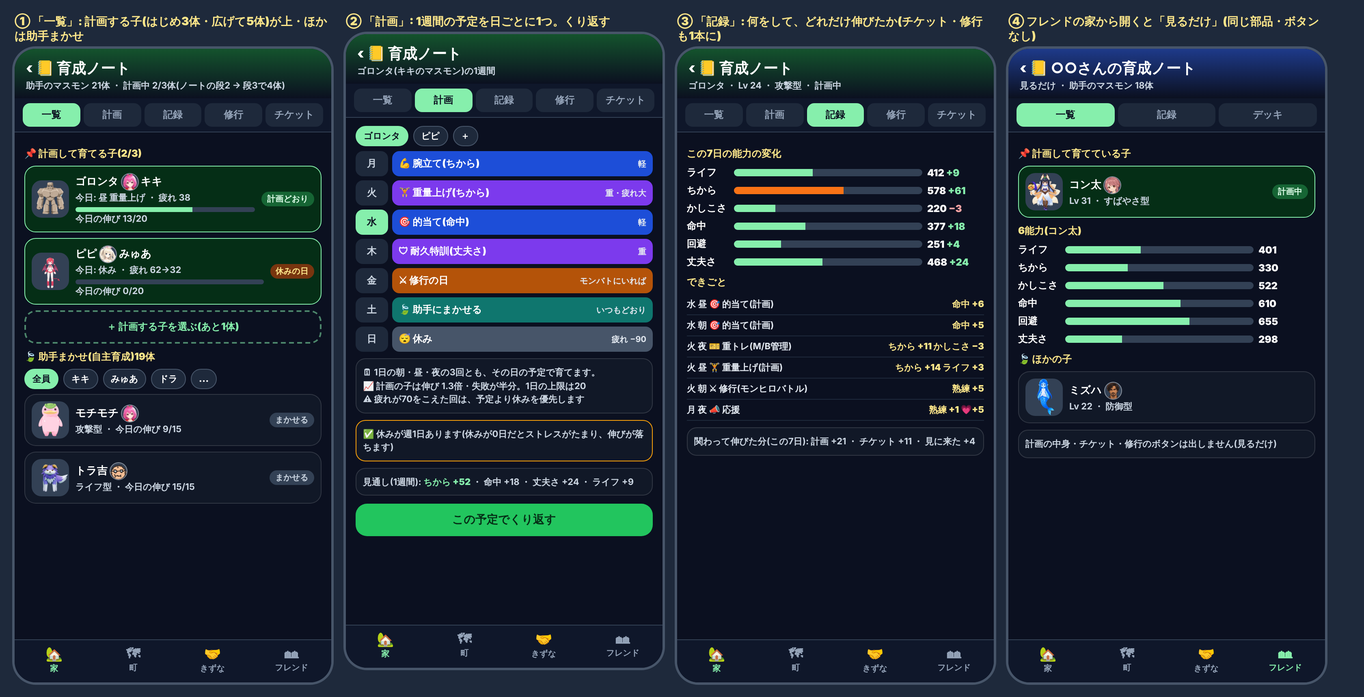
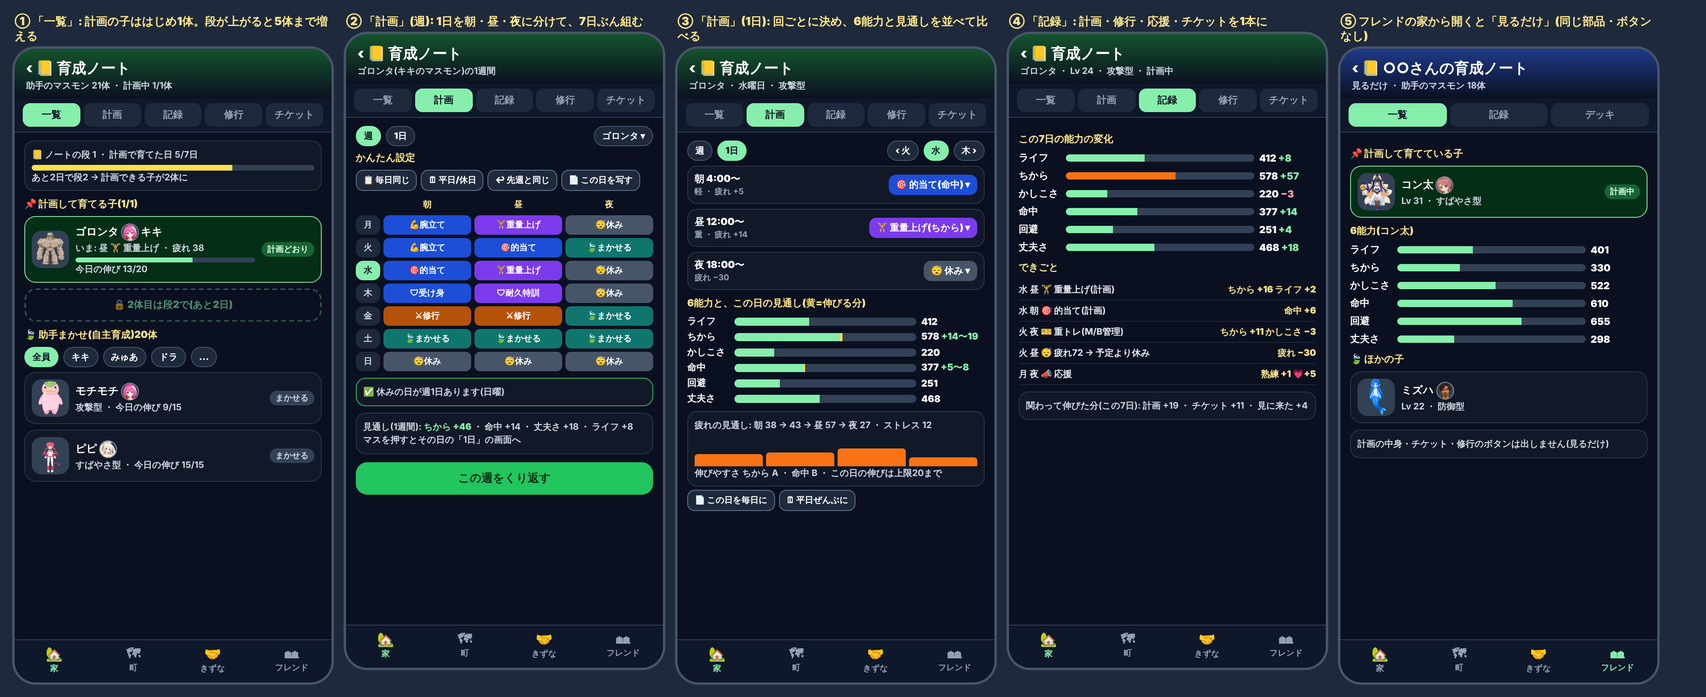
助手マスモンの計画育成の案 第3版: 社長の答え(1体から5体・朝昼夜×週の予定・かんたん設定・能力と比べる・指定を計画に一本化)・台帳に1行(キズナ)
Claude-Session: https://claude.ai/code/session_0113GBaE7CwwRJoKcQd4vpG5

Changed region(s): [[0.0, 0.0, 0.9688, 0.9883], [0.9375, 0.2471, 0.9688, 0.3089], [0.9375, 0.9266, 0.9688, 0.9575]]

diff --git a/docs/progress/assistant-peer/masmon-plan/mock.html b/docs/progress/assistant-peer/masmon-plan/mock.html
@@ -38,78 +38,64 @@
 .foot{position:absolute;left:0;right:0;bottom:0;display:flex;background:#0f172a;border-top:1px solid #334155}
 .foot div{flex:1;text-align:center;font-size:10px;font-weight:900;color:#94a3b8;padding:7px 0 10px}.foot .on{color:#86efac}
 .foot span{display:block;font-size:17px}
+</style><style>
+.grid{display:grid;grid-template-columns:30px repeat(3,1fr);gap:4px;font-size:10.5px;font-weight:900}
+.grid .h{text-align:center;color:#fde68a;padding:2px 0}
+.grid .k{border-radius:7px;padding:5px 3px;text-align:center;white-space:nowrap;overflow:hidden}
+.easy{display:flex;gap:5px;flex-wrap:wrap;margin:4px 0 8px}.easy span{font-size:10.5px;font-weight:900;padding:5px 8px;border-radius:9px;background:#1e293b;border:1px solid #64748b}
+.slot{border:1px solid #ffffff22;border-radius:12px;background:#111827;padding:7px 8px;margin-bottom:6px;font-size:12px;font-weight:900;display:flex;justify-content:space-between;align-items:center}
+.slot .sel{padding:5px 9px;border-radius:9px;font-size:11.5px}
+.slot small{display:block;font-size:10px;color:#94a3b8;font-weight:700}
+.cmp{display:grid;grid-template-columns:52px 1fr 78px;gap:6px;align-items:center;font-size:11.5px;font-weight:900;margin:4px 0}
+.cmp .b{height:10px;border-radius:9px;background:#334155;position:relative;overflow:hidden}
+.cmp .b i{position:absolute;left:0;top:0;bottom:0;background:#86efac}.cmp .b u{position:absolute;top:0;bottom:0;background:#fde047;text-decoration:none}
+.fat{display:flex;gap:4px;align-items:flex-end;height:38px;margin-top:4px}.fat i{flex:1;background:#f97316;border-radius:4px 4px 0 0}
+.lv{height:7px;border-radius:9px;background:#334155;overflow:hidden;margin-top:4px}.lv i{display:block;height:100%;background:#fde047}
 </style></head><body>
-<div class="row">
-
-<!-- ① 一覧 -->
-<div><p class="cap">① 「一覧」: 計画する子(はじめ3体・広げて5体)が上・ほかは助手まかせ</p>
-<div class="ph">
-<div class="hd"><h2>‹ 📒 育成ノート</h2><div class="s">助手のマスモン 21体 ・ 計画中 2/3体(ノートの段2 → 段3で4体)</div></div>
-<div class="tabs"><div class="tab on">一覧</div><div class="tab">計画</div><div class="tab">記録</div><div class="tab">修行</div><div class="tab">チケット</div></div>
-<div class="bd">
-<div class="sec">📌 計画して育てる子(2/3)</div>
-<div class="mon plan"><img class="th" src="../../../../monster-hero/images/monster-thumbs/golem.png"><div style="flex:1"><div class="nm">ゴロンタ <img class="face" src="../../../../monster-hero/images/assistant/face/kiki_normal.PNG"> キキ</div><div class="mi">今日: 昼 重量上げ ・ 疲れ 38</div><div class="bar"><i style="width:65%"></i></div><div class="mi">今日の伸び 13/20</div></div><span class="pill">計画どおり</span></div>
-<div class="mon plan"><img class="th" src="../../../../monster-hero/images/monster-thumbs/pixie.png"><div style="flex:1"><div class="nm">ピピ <img class="face" src="../../../../monster-hero/images/assistant/face/myua_normal.PNG"> みゅあ</div><div class="mi">今日: 休み ・ 疲れ 62→32</div><div class="bar"><i style="width:0%"></i></div><div class="mi">今日の伸び 0/20</div></div><span class="pill y">休みの日</span></div>
-<div class="empty">＋ 計画する子を選ぶ(あと1体)</div>
-<div class="sec">🍃 助手まかせ(自主育成)19体</div>
+<div class="row"><div><p class="cap">① 「一覧」: 計画の子ははじめ1体。段が上がると5体まで増える</p><div class="ph"><div class="hd"><h2>‹ 📒 育成ノート</h2><div class="s">助手のマスモン 21体 ・ 計画中 1/1体</div></div><div class="tabs"><div class="tab on">一覧</div><div class="tab">計画</div><div class="tab">記録</div><div class="tab">修行</div><div class="tab">チケット</div></div><div class="bd">
+<div class="box" style="margin-top:0">📒 ノートの段 1 ・ 計画で育てた日 5/7日<div class="lv"><i style="width:71%"></i></div>あと2日で段2 → 計画できる子が2体に</div>
+<div class="sec">📌 計画して育てる子(1/1)</div>
+<div class="mon plan"><img class="th" src="../../../../monster-hero/images/monster-thumbs/golem.png"><div style="flex:1"><div class="nm">ゴロンタ <img class="face" src="../../../../monster-hero/images/assistant/face/kiki_normal.PNG"> キキ</div><div class="mi">いま: 昼 🏋 重量上げ ・ 疲れ 38</div><div class="bar"><i style="width:65%"></i></div><div class="mi">今日の伸び 13/20</div></div><span class="pill">計画どおり</span></div>
+<div class="empty" style="opacity:.55">🔒 2体目は段2で(あと2日)</div>
+<div class="sec">🍃 助手まかせ(自主育成)20体</div>
 <div class="chips"><span class="chip on">全員</span><span class="chip">キキ</span><span class="chip">みゅあ</span><span class="chip">ドラ</span><span class="chip">…</span></div>
 <div class="mon"><img class="th" src="../../../../monster-hero/images/monster-thumbs/mocchi.png"><div style="flex:1"><div class="nm">モチモチ <img class="face" src="../../../../monster-hero/images/assistant/face/kiki_normal.PNG"></div><div class="mi">攻撃型 ・ 今日の伸び 9/15</div></div><span class="pill g">まかせる</span></div>
-<div class="mon"><img class="th" src="../../../../monster-hero/images/monster-thumbs/tiger.png"><div style="flex:1"><div class="nm">トラ吉 <img class="face" src="../../../../monster-hero/images/assistant/face/dra_normal.PNG"></div><div class="mi">ライフ型 ・ 今日の伸び 15/15</div></div><span class="pill g">まかせる</span></div>
-</div>
-<div class="foot"><div class="on"><span>🏡</span>家</div><div><span>🗺</span>町</div><div><span>🤝</span>きずな</div><div><span>🏘</span>フレンド</div></div>
-</div></div>
-
-<!-- ② 計画 -->
-<div><p class="cap">② 「計画」: 1週間の予定を日ごとに1つ。くり返す</p>
-<div class="ph">
-<div class="hd"><h2>‹ 📒 育成ノート</h2><div class="s">ゴロンタ(キキのマスモン)の1週間</div></div>
-<div class="tabs"><div class="tab">一覧</div><div class="tab on">計画</div><div class="tab">記録</div><div class="tab">修行</div><div class="tab">チケット</div></div>
-<div class="bd">
-<div class="chips"><span class="chip on">ゴロンタ</span><span class="chip">ピピ</span><span class="chip">＋</span></div>
-<div class="wk">
-<div class="d">月</div><div class="c tr">💪 腕立て(ちから)<small>軽</small></div>
-<div class="d">火</div><div class="c hv">🏋 重量上げ(ちから)<small>重・疲れ大</small></div>
-<div class="d today">水</div><div class="c tr">🎯 的当て(命中)<small>軽</small></div>
-<div class="d">木</div><div class="c hv">🛡 耐久特訓(丈夫さ)<small>重</small></div>
-<div class="d">金</div><div class="c sg">⚔ 修行の日<small>モンバトにいれば</small></div>
-<div class="d">土</div><div class="c fr">🍃 助手にまかせる<small>いつもどおり</small></div>
-<div class="d">日</div><div class="c rs">😴 休み<small>疲れ −90</small></div>
-</div>
-<div class="box">🗓 1日の朝・昼・夜の3回とも、その日の予定で育てます。<br>📈 計画の子は伸び 1.3倍・失敗が半分。1日の上限は20<br>⚠ 疲れが70をこえた回は、予定より休みを優先します</div>
-<div class="box" style="border-color:#f59e0b">✅ 休みが週1日あります(休みが0日だとストレスがたまり、伸びが落ちます)</div>
-<div class="box">見通し(1週間): <b class="up">ちから +52</b> ・ 命中 +18 ・ 丈夫さ +24 ・ ライフ +9</div>
-<span class="btn">この予定でくり返す</span>
-</div>
-<div class="foot"><div class="on"><span>🏡</span>家</div><div><span>🗺</span>町</div><div><span>🤝</span>きずな</div><div><span>🏘</span>フレンド</div></div>
-</div></div>
-
-<!-- ③ 記録・能力の変化 -->
-<div><p class="cap">③ 「記録」: 何をして、どれだけ伸びたか(チケット・修行も1本に)</p>
-<div class="ph">
-<div class="hd"><h2>‹ 📒 育成ノート</h2><div class="s">ゴロンタ ・ Lv 24 ・ 攻撃型 ・ 計画中</div></div>
-<div class="tabs"><div class="tab">一覧</div><div class="tab">計画</div><div class="tab on">記録</div><div class="tab">修行</div><div class="tab">チケット</div></div>
-<div class="bd">
+<div class="mon"><img class="th" src="../../../../monster-hero/images/monster-thumbs/pixie.png"><div style="flex:1"><div class="nm">ピピ <img class="face" src="../../../../monster-hero/images/assistant/face/myua_normal.PNG"></div><div class="mi">すばやさ型 ・ 今日の伸び 15/15</div></div><span class="pill g">まかせる</span></div></div><div class="foot"><div class="on"><span>🏡</span>家</div><div><span>🗺</span>町</div><div><span>🤝</span>きずな</div><div><span>🏘</span>フレンド</div></div></div></div><div><p class="cap">② 「計画」(週): 1日を朝・昼・夜に分けて、7日ぶん組む</p><div class="ph"><div class="hd"><h2>‹ 📒 育成ノート</h2><div class="s">ゴロンタ(キキのマスモン)の1週間</div></div><div class="tabs"><div class="tab">一覧</div><div class="tab on">計画</div><div class="tab">記録</div><div class="tab">修行</div><div class="tab">チケット</div></div><div class="bd">
+<div class="chips"><span class="chip on">週</span><span class="chip">1日</span><span style="flex:1"></span><span class="chip">ゴロンタ ▾</span></div>
+<div class="sec" style="margin-top:2px">かんたん設定</div>
+<div class="easy"><span>📋 毎日同じ</span><span>🗓 平日/休日</span><span>↩ 先週と同じ</span><span>📄 この日を写す</span></div>
+<div class="grid"><div></div><div class="h">朝</div><div class="h">昼</div><div class="h">夜</div><div class="d" style="padding:5px 0">月</div><div class="k tr">💪腕立て</div><div class="k hv">🏋重量上げ</div><div class="k rs">😴休み</div><div class="d" style="padding:5px 0">火</div><div class="k tr">💪腕立て</div><div class="k tr">🎯的当て</div><div class="k fr">🍃まかせる</div><div class="d today" style="padding:5px 0">水</div><div class="k tr">🎯的当て</div><div class="k hv">🏋重量上げ</div><div class="k rs">😴休み</div><div class="d" style="padding:5px 0">木</div><div class="k tr">🛡受け身</div><div class="k hv">🛡耐久特訓</div><div class="k rs">😴休み</div><div class="d" style="padding:5px 0">金</div><div class="k sg">⚔修行</div><div class="k sg">⚔修行</div><div class="k fr">🍃まかせる</div><div class="d" style="padding:5px 0">土</div><div class="k fr">🍃まかせる</div><div class="k fr">🍃まかせる</div><div class="k fr">🍃まかせる</div><div class="d" style="padding:5px 0">日</div><div class="k rs">😴休み</div><div class="k rs">😴休み</div><div class="k rs">😴休み</div></div>
+<div class="box" style="border-color:#22c55e">✅ 休みの日が週1日あります(日曜)</div>
+<div class="box">見通し(1週間): <b class="up">ちから +46</b> ・ 命中 +14 ・ 丈夫さ +18 ・ ライフ +8<br>マスを押すとその日の「1日」の画面へ</div>
+<span class="btn">この週をくり返す</span></div><div class="foot"><div class="on"><span>🏡</span>家</div><div><span>🗺</span>町</div><div><span>🤝</span>きずな</div><div><span>🏘</span>フレンド</div></div></div></div><div><p class="cap">③ 「計画」(1日): 回ごとに決め、6能力と見通しを並べて比べる</p><div class="ph"><div class="hd"><h2>‹ 📒 育成ノート</h2><div class="s">ゴロンタ ・ 水曜日 ・ 攻撃型</div></div><div class="tabs"><div class="tab">一覧</div><div class="tab on">計画</div><div class="tab">記録</div><div class="tab">修行</div><div class="tab">チケット</div></div><div class="bd">
+<div class="chips"><span class="chip">週</span><span class="chip on">1日</span><span style="flex:1"></span><span class="chip">‹ 火</span><span class="chip on">水</span><span class="chip">木 ›</span></div>
+<div class="slot"><span>朝 4:00〜<small>軽 ・ 疲れ +5</small></span><span class="sel tr">🎯 的当て(命中) ▾</span></div>
+<div class="slot"><span>昼 12:00〜<small>重 ・ 疲れ +14</small></span><span class="sel hv">🏋 重量上げ(ちから) ▾</span></div>
+<div class="slot"><span>夜 18:00〜<small>疲れ −30</small></span><span class="sel rs">😴 休み ▾</span></div>
+<div class="sec">6能力と、この日の見通し(<span style="color:#fde047">黄</span>=伸びる分)</div>
+<div class="cmp"><span>ライフ</span><div class="b"><i style="width:41%"></i><u style="left:41%;width:0%"></u></div><span>412 <span class="up"></span></span></div>
+<div class="cmp"><span>ちから</span><div class="b"><i style="width:58%"></i><u style="left:58%;width:1.6%"></u></div><span>578 <span class="up">+14〜19</span></span></div>
+<div class="cmp"><span>かしこさ</span><div class="b"><i style="width:22%"></i><u style="left:22%;width:0%"></u></div><span>220 <span class="up"></span></span></div>
+<div class="cmp"><span>命中</span><div class="b"><i style="width:38%"></i><u style="left:38%;width:0.7%"></u></div><span>377 <span class="up">+5〜8</span></span></div>
+<div class="cmp"><span>回避</span><div class="b"><i style="width:25%"></i><u style="left:25%;width:0%"></u></div><span>251 <span class="up"></span></span></div>
+<div class="cmp"><span>丈夫さ</span><div class="b"><i style="width:47%"></i><u style="left:47%;width:0%"></u></div><span>468 <span class="up"></span></span></div>
+<div class="box">疲れの見通し: 朝 38 → 43 → 昼 57 → 夜 27 ・ ストレス 12<div class="fat"><i style="height:38%"></i><i style="height:43%"></i><i style="height:57%"></i><i style="height:27%"></i></div>伸びやすさ ちから A ・ 命中 B ・ この日の伸びは上限20まで</div>
+<div class="easy"><span>📄 この日を毎日に</span><span>🗓 平日ぜんぶに</span></div></div><div class="foot"><div class="on"><span>🏡</span>家</div><div><span>🗺</span>町</div><div><span>🤝</span>きずな</div><div><span>🏘</span>フレンド</div></div></div></div><div><p class="cap">④ 「記録」: 計画・修行・応援・チケットを1本に</p><div class="ph"><div class="hd"><h2>‹ 📒 育成ノート</h2><div class="s">ゴロンタ ・ Lv 24 ・ 攻撃型 ・ 計画中</div></div><div class="tabs"><div class="tab">一覧</div><div class="tab">計画</div><div class="tab on">記録</div><div class="tab">修行</div><div class="tab">チケット</div></div><div class="bd">
 <div class="sec">この7日の能力の変化</div>
-<div class="st"><span>ライフ</span><div class="bar"><i style="width:42%"></i></div><span>412 <span class="up">+9</span></span></div>
-<div class="st"><span>ちから</span><div class="bar"><i style="width:58%;background:#f97316"></i></div><span>578 <span class="up">+61</span></span></div>
+<div class="st"><span>ライフ</span><div class="bar"><i style="width:42%"></i></div><span>412 <span class="up">+8</span></span></div>
+<div class="st"><span>ちから</span><div class="bar"><i style="width:58%;background:#f97316"></i></div><span>578 <span class="up">+57</span></span></div>
 <div class="st"><span>かしこさ</span><div class="bar"><i style="width:22%"></i></div><span>220 <span class="dn">−3</span></span></div>
-<div class="st"><span>命中</span><div class="bar"><i style="width:38%"></i></div><span>377 <span class="up">+18</span></span></div>
+<div class="st"><span>命中</span><div class="bar"><i style="width:38%"></i></div><span>377 <span class="up">+14</span></span></div>
 <div class="st"><span>回避</span><div class="bar"><i style="width:25%"></i></div><span>251 <span class="up">+4</span></span></div>
-<div class="st"><span>丈夫さ</span><div class="bar"><i style="width:47%"></i></div><span>468 <span class="up">+24</span></span></div>
+<div class="st"><span>丈夫さ</span><div class="bar"><i style="width:47%"></i></div><span>468 <span class="up">+18</span></span></div>
 <div class="sec">できごと</div>
-<div class="log"><span>水 昼 🎯 的当て(計画)</span><b>命中 +6</b></div>
-<div class="log"><span>水 朝 🎯 的当て(計画)</span><b>命中 +5</b></div>
+<div class="log"><span>水 昼 🏋 重量上げ(計画)</span><b>ちから +16 ライフ +2</b></div>
+<div class="log"><span>水 朝 🎯 的当て(計画)</span><b>命中 +6</b></div>
 <div class="log"><span>火 夜 🎫 重トレ(M/B管理)</span><b>ちから +11 かしこさ −3</b></div>
-<div class="log"><span>火 昼 🏋 重量上げ(計画)</span><b>ちから +14 ライフ +3</b></div>
-<div class="log"><span>火 朝 ⚔ 修行(モンヒロバトル)</span><b>熟練 +5</b></div>
+<div class="log"><span>火 昼 😴 疲れ72 → 予定より休み</span><b>疲れ −30</b></div>
 <div class="log"><span>月 夜 📣 応援</span><b>熟練 +1 💗+5</b></div>
-<div class="box">関わって伸びた分(この7日): 計画 +21 ・ チケット +11 ・ 見に来た +4</div>
-</div>
-<div class="foot"><div class="on"><span>🏡</span>家</div><div><span>🗺</span>町</div><div><span>🤝</span>きずな</div><div><span>🏘</span>フレンド</div></div>
-</div></div>
-
-<!-- ④ フレンドの家(見るだけ) -->
-<div><p class="cap">④ フレンドの家から開くと「見るだけ」(同じ部品・ボタンなし)</p>
+<div class="box">関わって伸びた分(この7日): 計画 +19 ・ チケット +11 ・ 見に来た +4</div></div><div class="foot"><div class="on"><span>🏡</span>家</div><div><span>🗺</span>町</div><div><span>🤝</span>きずな</div><div><span>🏘</span>フレンド</div></div></div></div><!-- ⑤ フレンドの家(見るだけ) -->
+<div><p class="cap">⑤ フレンドの家から開くと「見るだけ」(同じ部品・ボタンなし)</p>
 <div class="ph">
 <div class="hd" style="background:linear-gradient(#1e3a8a,#0b1020)"><h2>‹ 📒 ○○さんの育成ノート</h2><div class="s">見るだけ ・ 助手のマスモン 18体</div></div>
 <div class="tabs"><div class="tab on">一覧</div><div class="tab">記録</div><div class="tab">デッキ</div></div>

diff --git a/docs/progress/assistant-peer/masmon-plan/PLAN.md b/docs/progress/assistant-peer/masmon-plan/PLAN.md
@@ -1,9 +1,10 @@
-# 助手マスモンを「計画して育てる」しくみと、育成の専用ページ(案だけ・作るのは社長が選んでから)
+# 助手マスモンを「計画して育てる」しくみと、育成の専用ページ「育成ノート」(第3版・社長の答えを反映。作るのは社長の「これで」のあと)
 
 キズナ 2026-11-12。社長「助手マスモンの育成って複数いるけどどういう感じにされてるの？1体だけ？まとめて？そのへんもわかりやすくして。モンスターファーム4みたいに複数を計画的に育てられる仕組みのほうがよさそう。ただ全員だと大変だから最大数決めるとかで。マスモン育成関係はもっと専用のページ作ったほうがいい」
 
-- 表の絵: `overview.png`(いまの育て方)/ 止め絵: `mock.png`(スマホ縦3画面)。元は同じ名前の `.html`
+- 表の絵: `overview.png`(いまの育て方)/ 止め絵: `mock.png`(スマホ縦5画面: 一覧・計画(週)・計画(1日)・記録・フレンドから見るだけ)。元は同じ名前の `.html`
 - 2026-11-12 第2版: 社長の追加「モンスターファーム4を参考にしてみて」を受け、下の「参考にした仕組みの対応表」を足し、上限が広がる形・休みの見張り・フレンドから見るだけの形を足した
+- 2026-11-12 第3版: 社長の答え(下の「4. 社長の答え」)で、数・予定の組み方・指定の一本化を直した
 - 取り入れたのは仕組みの考え方だけ。ゲームの名前(この資料の中の説明を除く)・画面・用語・絵は写さない。画面の言葉はうちの言葉(助手・マスモン・M/B管理・修行・育成ノート)
 
 ## 1. いまの育て方(答え: 全員がまとめて自動で育つ)
@@ -28,27 +29,30 @@
 
 | 参考にした仕組み | 確かさ | うちではこう置き換える |
 | --- | --- | --- |
-| 複数のモンスターを同時に育てる。数の上限は牧場の広さで決まり、最大5体 | 確か | 「計画して育てる子」ははじめ3体。育成ノートの段(計画で育てた日数)で4体・5体へ広がる。広げる道のりそのものが続ける楽しみになる |
+| 複数のモンスターを同時に育てる。数の上限は牧場の広さで決まり、最大5体 | 確か | 「計画して育てる子」ははじめ1体。育成ノートの段(計画で育てた日数)で1体ずつ増え、最大5体。広げる道のりそのものが続ける楽しみになる |
 | 育てる数を絞る(全員は手が回らない) | 確か(上限がある) | 助手のマスモンは最大64体。全員は計画しない。計画の外の子は助手まかせ(自主育成) |
-| 予定を先に組んで、時間が進むと自動で回る | 一般 | 1週間の予定(日ごとに1つ)を組み、朝・昼・夜の育成の回で自動で進む。開いていない間も進む(今の自主育成と同じ) |
+| 予定を先に組んで、時間が進むと自動で回る | 一般 | 1日の朝・昼・夜の回ごとに決め、それを7日ぶん組む。くり返しはかんたん設定。開いていない間も進む(今の自主育成と同じ) |
 | 楽な訓練と大変な訓練(大変なほど伸びも疲れも大きい) | 一般 | 軽い訓練/重い訓練(今の訓練の表のまま) |
 | 疲れ・ストレスをためると伸びが落ちる。休みや遊びで下げる | 一般 | 今の疲れ・ストレスをそのまま使う。疲れ70で休み・ストレス50で遊びを予定より先に。週に休みが0日だと、計画の画面で知らせる |
 | 育成を手伝う人に任せる | 一般 | 予定の「助手にまかせる」の日と、計画外の子。助手の性格(積極型など)で選び方が変わる |
 | 大会の日程に合わせて仕上げる | 一般 | 今回は入れない。あとでマスモン対戦のランキング(週ごと)に合わせる予定の型を足せる |
 | 寿命・エサ | 一般 | 採らない(うちのマスモンは寿命なし・保存データを増やしすぎない) |
 
-## 2. 案: 「計画して育てる子」を最大◯体選び、1週間の予定を組む
+## 2. 案: 「計画して育てる子」(1体から5体)の、朝・昼・夜×7日の予定を組む
 
-- **計画する子**: プレイヤーが助手のマスモン全体から選ぶ(助手をまたいでよい。いつでも外せる・入れ替えられる)。はじめ3体、育成ノートの段で広がり最大5体(案: 計画で育てた日数が延べ14日で4体・42日で5体。段は下がらない)
-- **計画しない子**: 今の自主育成のまま(指定・相談・修行・応援・チケットもそのまま)
-- **予定**: 月〜日の7マスに1つずつ。中身は「軽い訓練(6能力)/重い訓練(6能力)/修行の日/休み/助手にまかせる」。その日の朝・昼・夜の3回をその予定で育てる。7日でくり返す
+- **計画する子**: プレイヤーが助手のマスモン全体から選ぶ(助手をまたいでよい。いつでも外せる・入れ替えられる)。はじめ1体
+- **育成ノートの段**(計画の子が予定で育った日の延べ。下がらない): 段1=1体 → 延べ7日で段2=2体 → 21日で段3=3体 → 42日で段4=4体 → 70日で段5=5体。どの段も「いまの数で約1週間」で次へ届く(最大まで約4週間)
+- **計画しない子**: 今の自主育成のまま(相談・修行・応援・チケットもそのまま)
+- **予定**: 1日を朝(4:00〜)・昼(12:00〜)・夜(18:00〜)の3回に分け、回ごとに「軽い訓練(6能力)/重い訓練(6能力)/修行/休み/遊び/助手にまかせる」から選ぶ。それを月〜日の7日ぶん(21マス)組み、7日でくり返す
+- **かんたん設定**: 「毎日同じ」「平日/休日(平日の1日と休日の1日だけ決める)」「先週と同じ」「この日を写す(ほかの日へ・平日ぜんぶへ)」
+- **能力と比べながら組む**(止め絵③): 1日の画面に、6能力の今の値と、その日の予定どおりならどれだけ伸びるか(黄の帯・幅で出す)・伸びやすさ・疲れとストレスの見通しを並べる。週の画面には1週間の見通しを出す
 - **安全**: 疲れが70をこえた回・ストレスが50以上の回は、予定より休み・遊びを優先(記録に「疲れていたので休みました」)。体をこわさない
 - **休みの見張り**: 予定に休みが0日だと、計画の画面に「ストレスがたまり、伸びが落ちます」と出す(組むことはできる)
-- **修行の日**: 助手がその回にモンヒロバトルにいれば修行、いなければ方針の能力の軽い訓練(助手の行き先は動かさない。行き先の予定はナカヨシの「1日のスケジュール」側)
+- **修行の回**: 助手がその回にモンヒロバトルにいれば修行、いなければ方針の能力の軽い訓練(助手の行き先は動かさない。行き先の予定はナカヨシの「1日のスケジュール」側)
 
 ### 伸びの釣り合い(フレンド対戦の見張り 40 に収まる)
 
-- 計画の回は今の「指定」と同じ扱い: 伸び1.3倍・失敗が半分。1日の上限は **20**(見に来た日と同じ。上限そのものは上げない)
+- 計画の回は今の「指定」と同じ扱い(指定は計画に一本化): 伸び1.3倍・失敗が半分。1日の上限は **20**(見に来た日と同じ。上限そのものは上げない)
 - チケットは今のまま上限の外で最大20 → 合計は最大 **40**。`DAILY_GROWTH_CAP` も masmon-pvp も変えない
 - 目安(試算の前の見込み): 計画しない子 1日 約12〜15・計画の子 1日 約18〜20(休みの日は0)。週に1日休むと、計画の子は1週間で約+15〜25%。方向を決められるのがいちばんの得で、数字の差は小さめ
 - 作るときに `care-sim` と同じ形で30・90・180日の試算を回し、上限999の届き方を確かめてから数字を決める
@@ -57,15 +61,16 @@
 
 | しくみ | 計画の子 | 計画しない子 |
 | --- | --- | --- |
-| 自主育成 | 予定が「助手にまかせる」の日だけ | そのまま |
-| ✋ 指定(1日3回) | 予定より指定が先(その回だけ) | そのまま |
-| 💬 相談 | 「まかせる」の日に効く | そのまま |
+| 自主育成 | 予定が「助手にまかせる」の回だけ | そのまま |
+| ✋ 訓練を指定(1日3回) | **計画に一本化してなくす**(1マスだけ変えるのが今の指定の代わり) | なくす(手を入れたい子は計画の子にする) |
+| 💬 相談 | 「まかせる」の回に効く | そのまま |
 | ⚔ 修行・📣 応援 | そのまま(「修行の日」で寄せやすい) | そのまま |
 | 🎫 チケット | そのまま(ページの「チケット」から使える) | そのまま |
 
 ### 保存(CLAUDE.md ⑦)
 
-- 新しいキー `mh_assistant_masmon_plan_v1` だけを足す: `{ v:1, picks:[{ aid, slot, monster }], week:{ "<aid>:<slot>": [7マス] }, log:[...] }`
+- 新しいキー `mh_assistant_masmon_plan_v1` だけを足す: `{ v:1, picks:[{ aid, slot, monster }], week:{ "<aid>:<slot>": [7日×3回] }, days, done:{ 引き継ぎの印 }, log:[...] }`
+- **指定の引き継ぎ**: 今の指定は育成のキーの `plan`(次の回の指定)にある。消さず・書き換えず、育成ノートを初めて開いたときに1度だけ読み、まだ来ていない回の指定を計画の子のその回のマスへ写す(`done.pickMoved_v1` の印で二度しない)。指定の画面とボタンは印が真になったら出さない
 - 育成のキー `mh_assistant_masmon_grow_v1` の形・意味は変えない。育成の計算(`amgCatchUp`)は、修行と同じ形で `typeof amgpPlanOf === 'function'` のときだけ予定を読む(印が偽なら今と全く同じ)
 - 計画の子が手放された・入れ替わった(slot と種族が合わない)ときは、その子の予定を読まないだけ(消さない)
 - 迎えた日にさかのぼって計画を当てない(計画は決めた次の回から)
@@ -75,23 +80,23 @@
 
 - **入口**: 家の上の「いま行くと得なこと」の並びに「📒 育成ノート」の札/各助手の部屋の「🐾 マスモン」の行からも同じページへ(その助手の子で絞った形)。下のタブ4つは増やさない
 - **中身(上のタブ5つ)**
-  - 一覧: 計画中の子(最大◯体)を上に大きく、ほかは助手ごとに絞れる一覧(今日の伸び ◯/15・方針)
-  - 計画: 1週間の予定。見通し(1週間でどの能力がどれだけ)を出す
+  - 一覧: 計画中の子(段の数まで)と段の道のりを上に大きく、ほかは助手ごとに絞れる一覧(今日の伸び ◯/15・方針)
+  - 計画: 「週」(朝・昼・夜×7日のマス・かんたん設定・1週間の見通し)と「1日」(回ごとに選ぶ・6能力と見通しを並べて比べる)
   - 記録: 7日の能力の変化(いくつ → いくつ)と、自主育成・計画・修行・応援・チケットのできごとを1本に。関わって伸びた分も
   - 修行: 今の修行の窓(技と熟練・応援・修行を見る)をここからも開ける
   - チケット: 今の M/B管理の窓をここからも開ける(使える回は今のまま、助手が M/B管理にいる回だけ)
 - 今の詳細画面・地図の窓は残す(近道として)。ページは表示と計画だけで、新しい得は「計画」だけ
 - **フレンドから見るだけの形**(オトズレの「フレンドの家で助手マスモンを見る」と同じ部品): 部品に相手の中身(一覧・1体の6能力・デッキ)を渡し、`readOnly` で開く。タブは 一覧・記録・デッキ だけ、計画の中身・修行・チケット・応援のボタンは出さない。自分の保存キーを読まない・書かない(止め絵④)
 
-## 4. 社長に聞くこと(おすすめを先頭)
+## 4. 社長の答え(2026-11-12・窓口経由・台帳に1行)
 
-1. 計画できる数: **はじめ3体・育成ノートの段で最大5体へ広がる(推奨)** / ずっと3体 / ずっと5体
-2. 計画の単位: **週(日ごとに1つ・くり返す)(推奨)** / 日(毎日その日の朝昼夜を決める) / 週×朝昼夜(21マス)
-3. 休み・疲れ: **疲れ70・ストレス50で予定より休みを優先し、休み0日の週は知らせる(推奨)** / 知らせるだけで予定どおり続ける(伸びが落ちる)
-4. 今のしくみ: **全部残す(推奨・計画しない子は今のまま)** / 「指定(1日3回)」は計画にまとめて消す
-5. 入口: **家の上の札+部屋の🐾マスモンから(推奨)** / 下のタブを5つにして「🐾 育成」を足す
+1. 計画できる数: 1体から5体まで増えていく(段の区切りは上の案: 7・21・42・70日)
+2. 予定: 1日の中(朝・昼・夜)も週でも組める。くり返しはかんたん設定。マスモンの6能力と比べながら組む
+3. 休み: 疲れ70・ストレス50で休みを優先し、休み0日の週は知らせる
+4. 今のしくみ: 「訓練を指定」は計画に一本化。相談・チケット・応援・修行は残す
+5. 入口: 家の上の札+部屋の🐾マスモン
 
-(選択式は4問までなので、窓口で 3 と 4 をまとめるか、5 を推奨のまま進めるかを決めてください)
+残りの確かめ(作りながら窓口へ): 段の区切り(7・21・42・70日)・名前「育成ノート」でよいか
 
 ## 段取り(決まってから)
 

diff --git a/docs/rules/PRESIDENT_DECISIONS.md b/docs/rules/PRESIDENT_DECISIONS.md
@@ -1269,3 +1269,4 @@
 - 2026-11-12 助手ライフ部: 夜の助手の部屋で、起きている助手はふつうの明るさで出す(暗くするのは寝ている時だけ)。社長が止め絵の右を「これで」と選択。町の地図の見やすくする直し(#5496)の更新履歴は「町の地図が見やすくなりました」の3行を「この文で」。
 - 2026-11-12 フレンド部: フレンドのプロフィールでも、自分のプロフィールと同じくらい見られるようにする(手持ちのマスモンの一覧と1体ずつの詳細・デッキなど)。社長「自分のと同じぐらい見れるようにして」。新曲「サウダージ」は通常版とショート版の2曲で入れ、ジャケット2枚を使い分ける(社長「ジャケット2枚あるからうまく活用して」)。
 - 2026-11-12 フレンド部: (前の行の直し)フレンドで見られるようにするのは、プレイヤー本人の手持ちではなく、助手ライフで助手が育てているマスモンとそのデッキ(社長「マスモンって助手ライフのほうね」「これも助手マスモンのこと」)。フレンドの家で、自分の助手ライフと同じくらい詳しく見せる。送り方は変わった分だけ、見せる設定ははじめは入。サウダージのジャケットは通常版=イラスト・ショート版=写真、作者名はポルノグラフィティ。サウダージはバラードではない(社長「バラードなの？」)。
+- 2026-11-12 マスモン部: 助手マスモンの計画育成(育成ノート・docs/progress/assistant-peer/masmon-plan/PLAN.md)の社長の答え: ①計画できる数は1体から段で5体まで増えていく ②予定は1日の中(朝・昼・夜の回ごと)も週でも組める・くり返しは簡単設定・組む画面でマスモンの6能力と見通しを比べながら組む(社長「スケジュールは時間単位もほしい」「1日の中身を決められて、かつ週でも決められる。繰り返しの場合はそういう簡単設定もある。マスモンのステータスと比較しながら組みたいね」) ③疲れ70・ストレス50で休み優先+休み0日の週を知らせる ④今の「訓練を指定」は計画に一本化(相談・チケット・応援・修行は残す・指定の保存キーは消さず読むだけで引き継ぐ) ⑤入口は家の上の札+部屋の🐾マスモン。参考はモンスターファーム4の仕組みの考え方だけ(社長「モンスターファーム4を参考にしてみて」)
